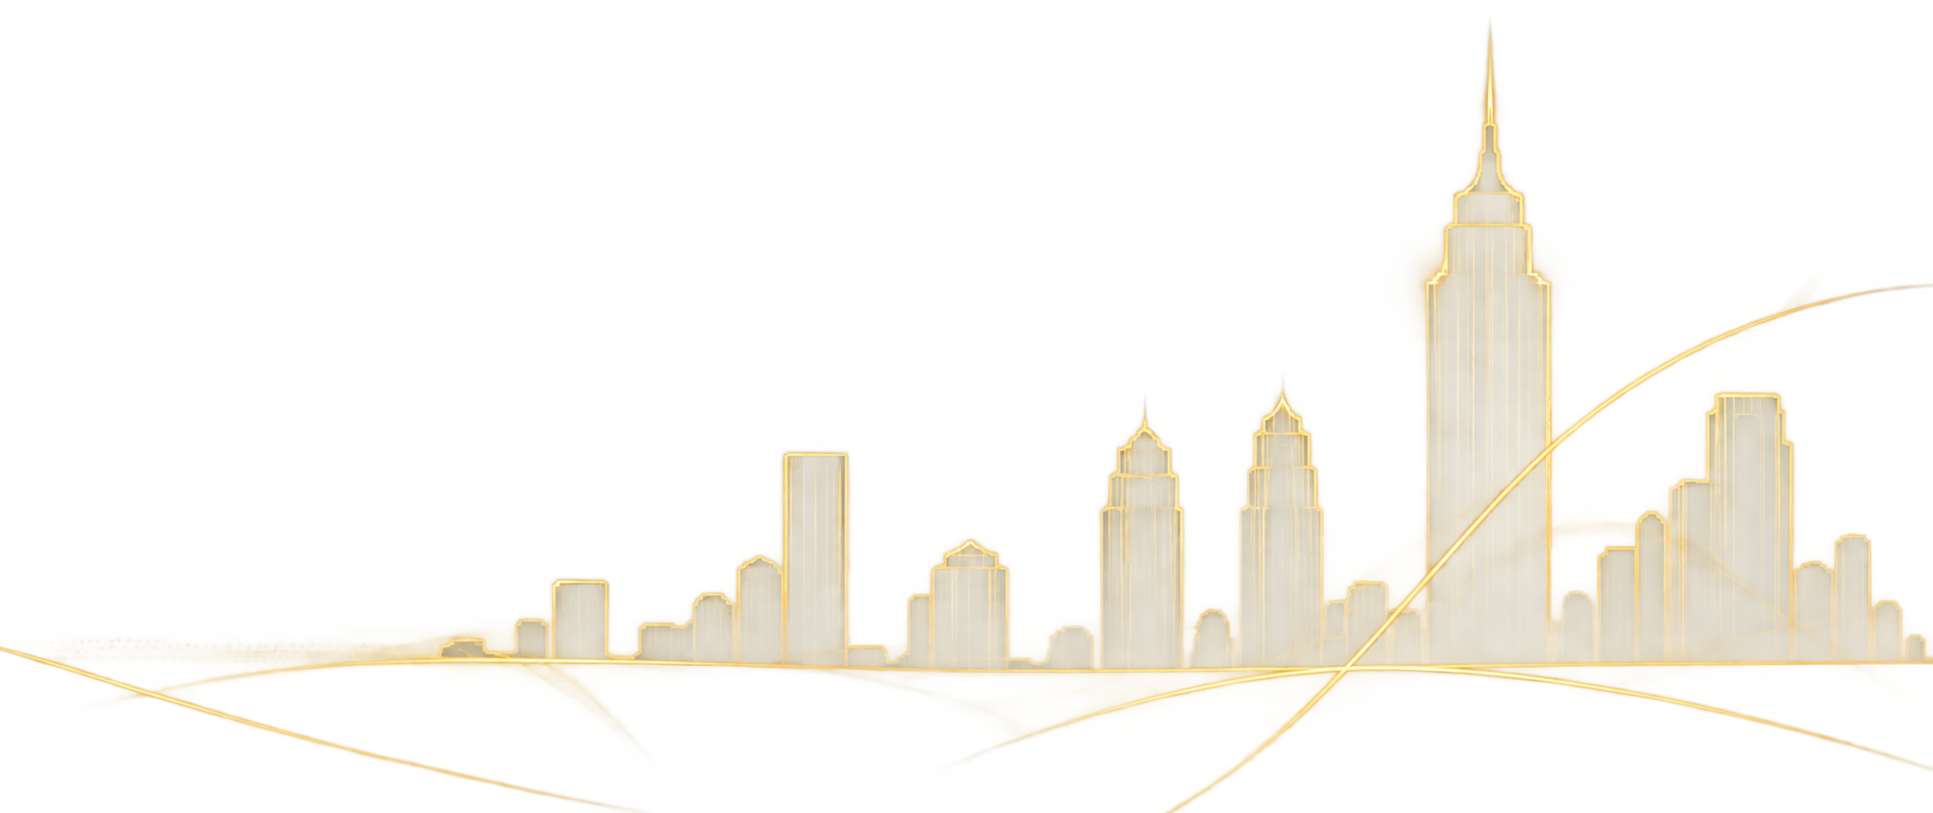
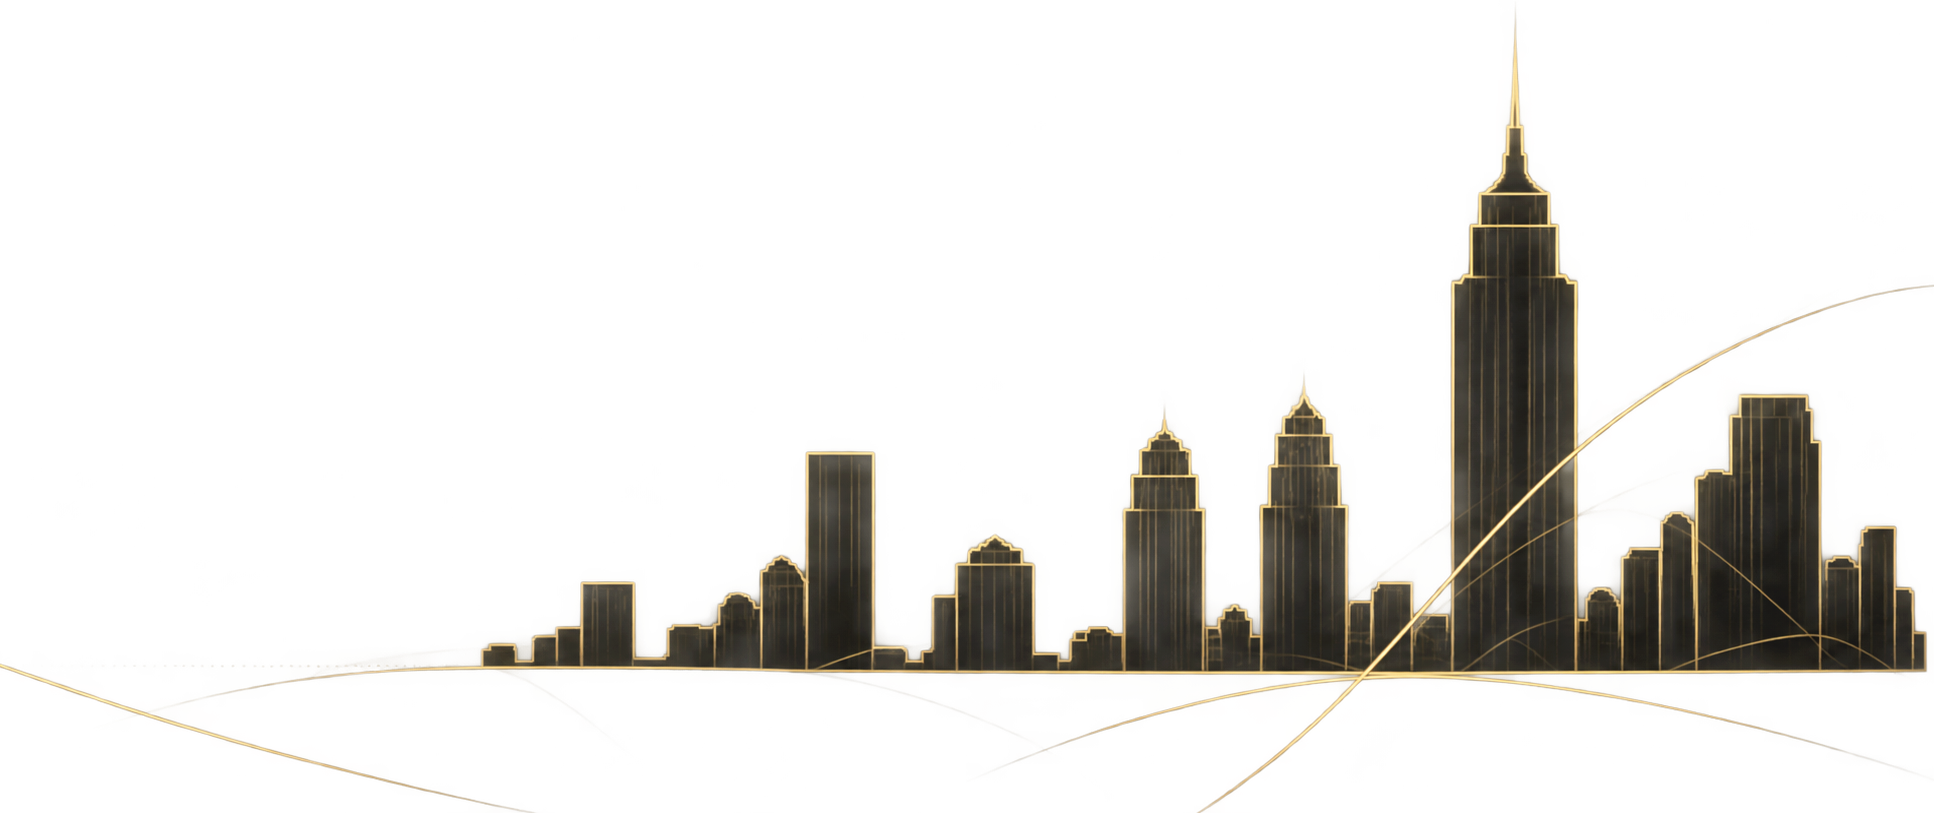
Add files via upload

diff --git a/daily-publication.css b/daily-publication.css
@@ -275,10 +275,16 @@ html,body{overflow-x:hidden}
 
 
 /* V3.15 — cover composition matched to approved reference; new supplied skyline; clean oil photo */
+/*
+   Header authority: the supplied sample image is the visual master.
+   At 192px reference width, the cover is 146px high.  All key positions below
+   are therefore percentage-based so the same composition scales cleanly.
+*/
 .brand-block{
   position:relative!important;
+  width:100%!important;
   height:auto!important;
-  aspect-ratio:563 / 404!important;
+  aspect-ratio:192 / 146!important;
   min-height:0!important;
   padding:0!important;
   overflow:hidden!important;
@@ -286,25 +292,26 @@ html,body{overflow-x:hidden}
 }
 .header-impactone-wordmark{
   position:absolute!important;
-  left:10.1%!important;
-  top:10.8%!important;
+  left:10.0%!important;
+  top:17.0%!important;
   margin:0!important;
   color:#fff!important;
   font-family:Arial,Helvetica,sans-serif!important;
-  font-size:clamp(12px,2.25vw,23px)!important;
+  font-size:clamp(6.5px,3.4vw,20px)!important;
   line-height:1!important;
   font-weight:400!important;
-  letter-spacing:.18em!important;
+  letter-spacing:.22em!important;
+  white-space:nowrap!important;
   z-index:3!important;
 }
 .brand-title{
   position:absolute!important;
   left:10.0%!important;
-  top:21.0%!important;
+  top:26.7%!important;
   margin:0!important;
   color:#fff!important;
   font-family:Georgia,"Songti SC","STSong","Noto Serif SC",serif!important;
-  font-size:clamp(31px,6.6vw,67px)!important;
+  font-size:clamp(16px,8.6vw,50px)!important;
   line-height:1.02!important;
   font-weight:700!important;
   font-style:italic!important;
@@ -314,22 +321,25 @@ html,body{overflow-x:hidden}
 }
 .brand-subtitle{
   position:absolute!important;
-  left:10.2%!important;
-  top:42.0%!important;
+  left:10.0%!important;
+  top:45.9%!important;
   margin:0!important;
   color:#c8a84b!important;
-  font-size:clamp(11px,2.05vw,20px)!important;
+  font-size:clamp(5.8px,3.0vw,17px)!important;
   line-height:1.1!important;
   font-weight:700!important;
   letter-spacing:.01em!important;
+  white-space:nowrap!important;
   z-index:3!important;
 }
 .issue-date{
   position:absolute!important;
   left:10.0%!important;
-  bottom:32.8%!important;
+  top:66.4%!important;
+  bottom:auto!important;
+  margin:0!important;
   color:#fff!important;
-  font-size:clamp(10px,1.7vw,17px)!important;
+  font-size:clamp(5px,2.7vw,15px)!important;
   line-height:1!important;
   letter-spacing:.02em!important;
   white-space:nowrap!important;
@@ -348,7 +358,7 @@ html,body{overflow-x:hidden}
   position:absolute!important;
   left:0!important;
   right:0!important;
-  bottom:-0.8%!important;
+  bottom:0!important;
   width:100%!important;
   height:auto!important;
   max-width:none!important;
@@ -363,11 +373,11 @@ html,body{overflow-x:hidden}
 .story figure img[src*="sample-oil-clean-v315"]{display:block!important;width:100%!important;height:auto!important;margin:0!important;padding:0!important;border:0!important;object-fit:cover!important;background:transparent!important}
 .story figure:has(img[src*="sample-oil-clean-v315"]) figcaption{display:none!important}
 @media(max-width:600px){
-  .brand-block{aspect-ratio:563 / 404!important;height:auto!important;padding:0!important}
-  .header-impactone-wordmark{left:9.6%!important;top:11.0%!important;font-size:clamp(11px,3.4vw,14px)!important}
-  .brand-title{left:9.5%!important;top:21.2%!important;font-size:clamp(29px,8.6vw,35px)!important}
-  .brand-subtitle{left:9.7%!important;top:42.0%!important;font-size:clamp(10px,3.0vw,12px)!important}
-  .issue-date{left:9.6%!important;bottom:32.3%!important;font-size:clamp(9px,2.7vw,11px)!important}
+  .brand-block{aspect-ratio:192 / 146!important;height:auto!important;padding:0!important}
+  .header-impactone-wordmark{left:10.0%!important;top:17.0%!important;font-size:3.4vw!important}
+  .brand-title{left:10.0%!important;top:26.7%!important;font-size:8.6vw!important}
+  .brand-subtitle{left:10.0%!important;top:45.9%!important;font-size:3.0vw!important}
+  .issue-date{left:10.0%!important;top:66.4%!important;bottom:auto!important;font-size:2.7vw!important}
   .skyline.skyline-original{inset:auto 0 0 0!important;width:100%!important;height:auto!important}
   .skyline.skyline-original>img{width:100%!important;bottom:0!important}
   .story figure{width:100%!important;margin:18px 0 16px!important}

diff --git a/service-worker.js b/service-worker.js
@@ -1,4 +1,4 @@
-const CACHE='impactone-daily-v314';
+const CACHE='impactone-daily-v315-headerfix';
 const STATIC=[
   '/daily-publication.css','/daily-interactions.js','/impactone-config.js','/manifest.webmanifest',
   '/images/brand/impactone-icon-192.png','/images/brand/impactone-icon-512.png',

diff --git a/README-V3.15.md b/README-V3.15.md
@@ -2,8 +2,7 @@
 
 本版更新：
 
-- 排头按用户提供的原图比例重新定位 IMPACTONE、标题、副标题和日期；标题恢复为“影响力·今日必读”。
-- Skyline 替换为用户本轮提供的最新透明天际线原图，不再使用旧线稿。
-- 油井图使用高清原图的纯照片区域，去掉图片内白边和说明文字，同时删除 HTML figcaption。
-- 保留 V3.14 的 PWA 桌面图标和首次从桌面打开后的通知授权提示逻辑。
-- Service Worker 缓存版本升级到 V3.15，减少手机继续读取旧样式的情况。
+- 排头以用户提供的样本原图为最高视觉依据，重新校正封面高度、IMPACTONE、标题、副标题与日期的字号和位置。
+- Skyline 使用用户本轮提供的附件4纽约天际线原图，保持原图比例并贴底满宽显示。
+- 油井图与其余正文、栏目、交互及页面内容保持 V3.15 现状不变。
+- Service Worker 缓存键更新，避免手机继续读取旧版排头样式或旧天际线图片。
